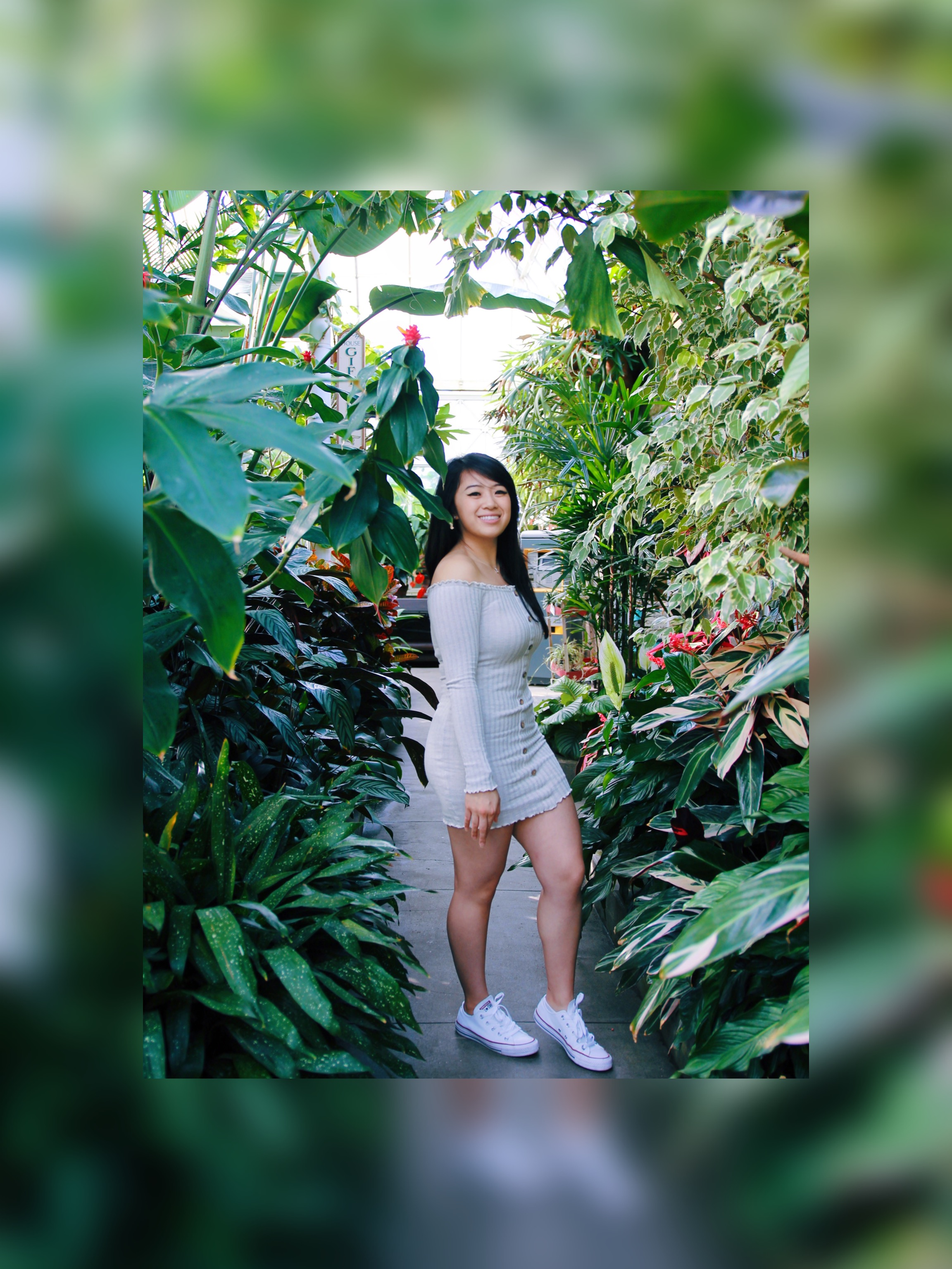
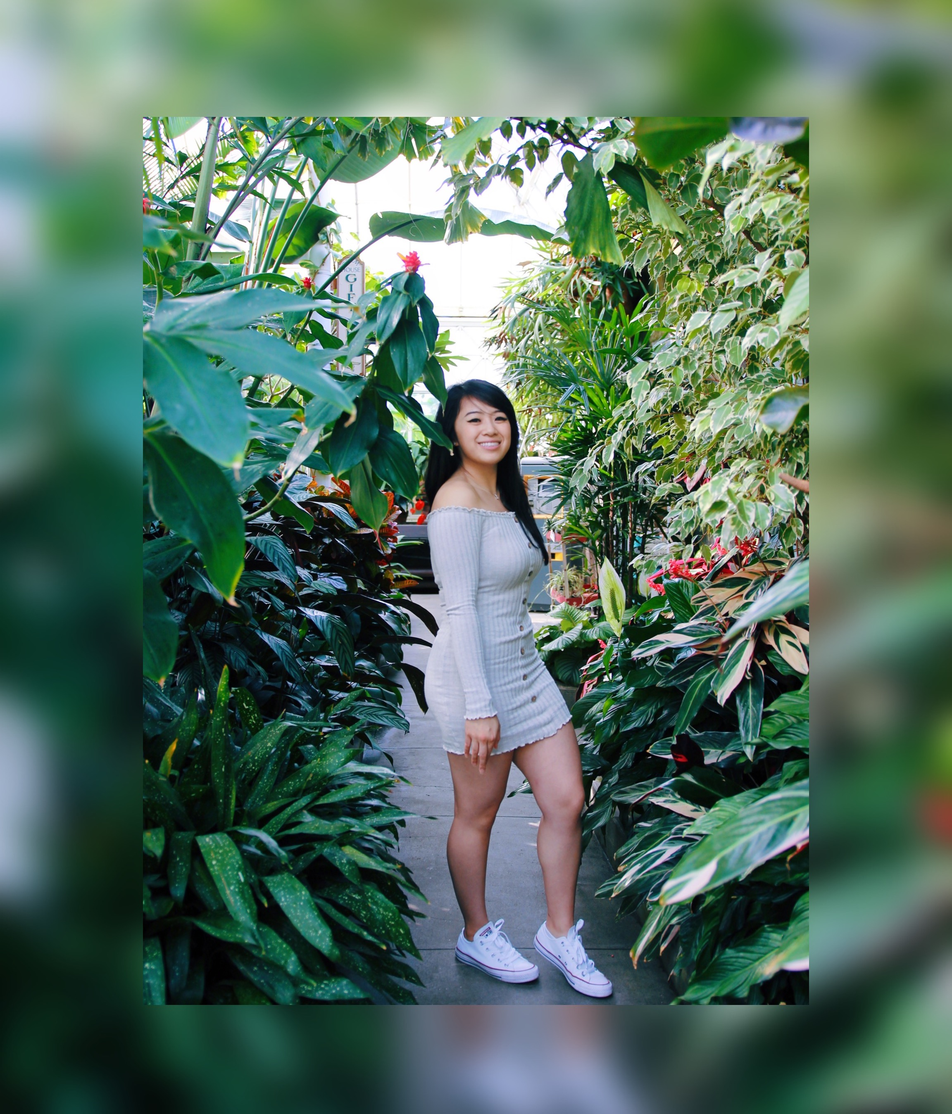
Styles for introduction on main page

diff --git a/src/components/main/Main.js b/src/components/main/Main.js
@@ -7,17 +7,20 @@ export default function Main() {
             {/* Left side with photo */}
             <div className="left">
                 <div className="imgContainer">
-                    <img src="assets/Me.JPG" alt="Photo for main page"></img>
+                    <img src="assets/Me.JPG" alt="Photo for main page"/>
                 </div>
             </div>
 
             {/* Right side with intro */}
-            <div className="right">
+            <div className="right1">
                 <div className="wrapper">
                     <h2>Hi there, I'm</h2>
                     <h1>Christine Nguyen</h1>
                     <h3>Full-Stack Developer<span></span></h3>
                 </div>
+                <a href="#works">
+                    <img id ="arrow" scr="assets/down.png" alt=""/>
+                </a>
             </div>
         </div>
     )

diff --git a/src/components/navbar/Navbar.js b/src/components/navbar/Navbar.js
@@ -3,12 +3,9 @@ import "./navbar.css"
 export default function Navbar({ menuOpen, setMenuOpen }) {
     return (
         <div className={"navbar " + (menuOpen && "active")}>
-            <div className="wrapper">
+            <div className="wrapper1">
                 <div className="left">
                     <a href="#main" className="logo">🌿</a>
-                    <div className="itemContainer">
-
-                    </div>
                 </div>
 
                 {/* Creating drop down menu page */}

diff --git a/src/components/main/main.css b/src/components/main/main.css
@@ -8,7 +8,7 @@
     overflow: hidden;
 }
 
-.right {
+.right1 {
     flex: 0.5;
     overflow: hidden;
 }
@@ -23,5 +23,32 @@
 }
 
 img {
+    width: 70%;
+}
+
+/* Styles for "Hi there, I'm Christine" */
+.wrapper {
+    display: flex;
+    flex-direction: column;
     width: 100%;
+    height: 100%;
+    padding-left: 50px;
+    justify-content: center;
+}
+
+h1 {
+    font-size: 60px;
+    margin: 10px 0;
+}
+
+h2 {
+    font-size: 35px;
+}
+
+h3 {
+    font-size: 30px;
+}
+
+#arrow {
+
 }

diff --git a/src/components/resume/Resume.js b/src/components/resume/Resume.js
@@ -3,7 +3,7 @@ import "./resume.css"
 export default function Resume() {
     return (
         <div className="resume" id="resume">
-            
+           
         </div>
     )
 }

diff --git a/src/components/navbar/navbar.css b/src/components/navbar/navbar.css
@@ -8,7 +8,7 @@
     z-index: 3;
 }
 
-.wrapper {
+.wrapper1 {
     padding: 10px 30px;
     display: flex;
     align-items: center;
